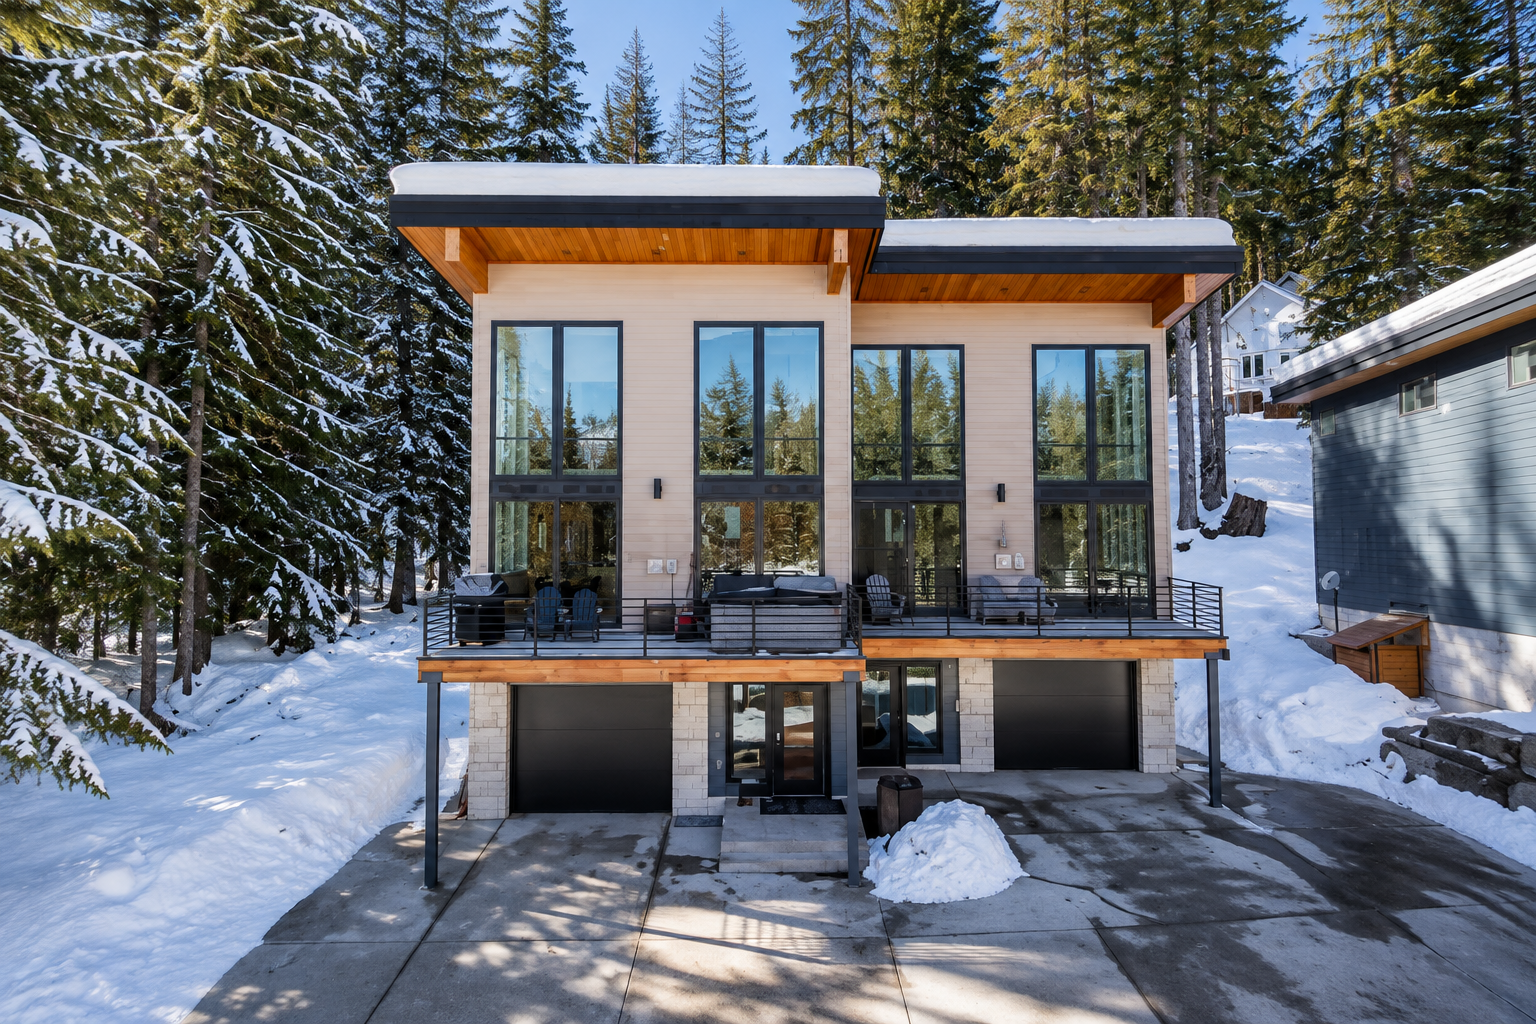
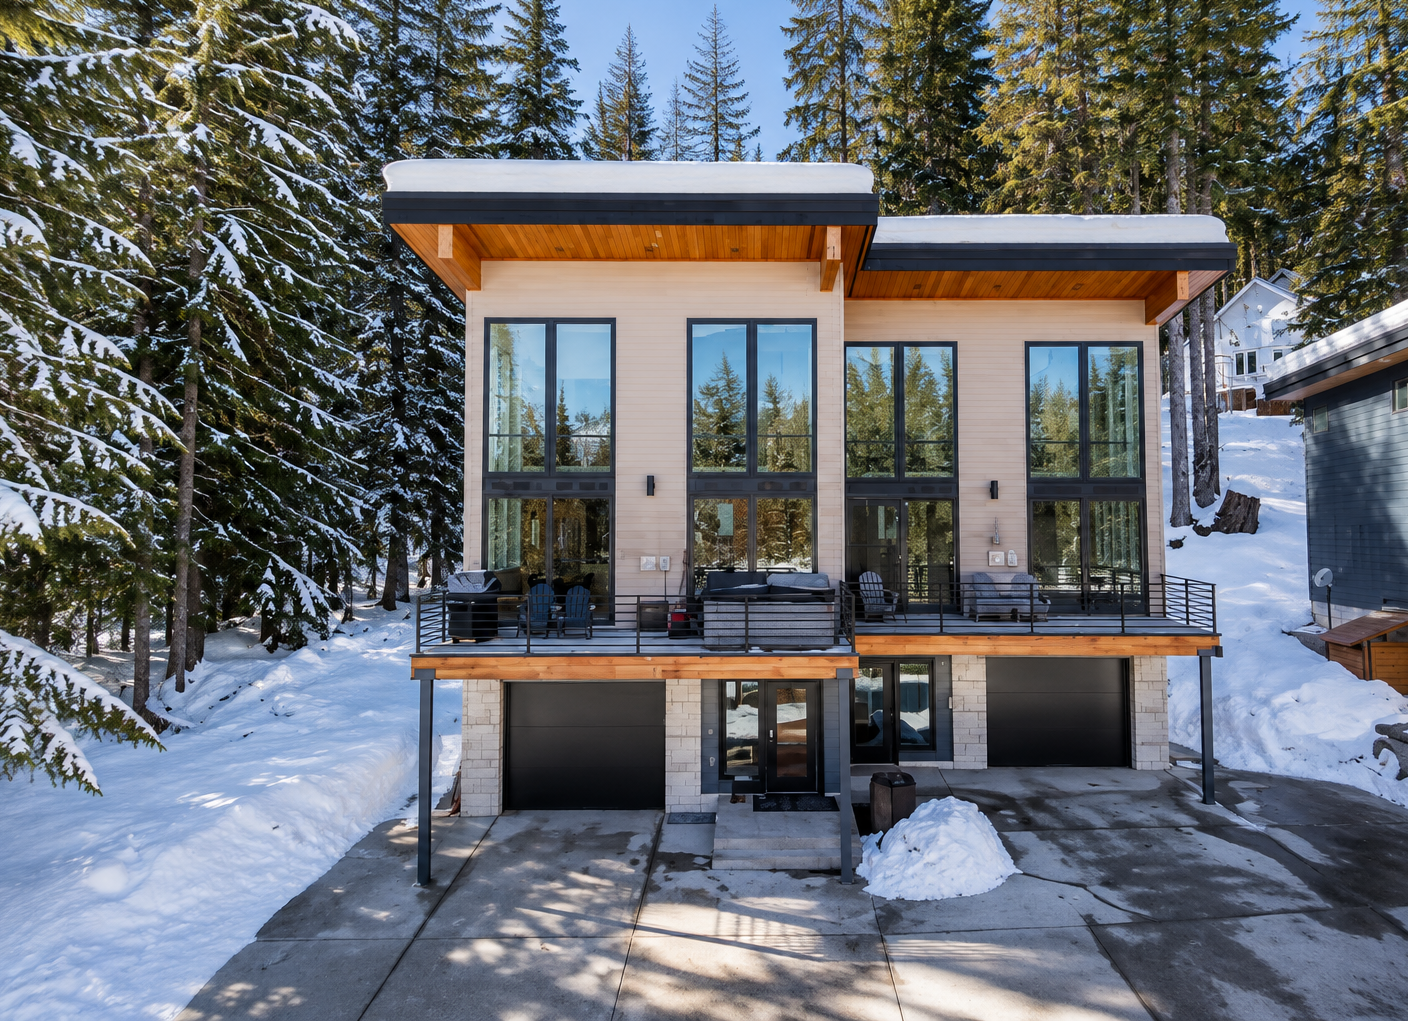
Hero update

diff --git a/book-your-stay/index.html b/book-your-stay/index.html
@@ -91,7 +91,7 @@
       </div>
       <div class="booking-gallery" aria-label="Photos of Bigfoot's Basecamp">
         <figure class="booking-gallery-featured">
-          <img src="../assets/images/booking-gallery/house-01.avif" alt="Rear exterior of Bigfoot's Basecamp surrounded by evergreens" />
+          <img src="/assets/images/booking-gallery/house-01.png" alt="Front exterior of Bigfoot's Basecamp surrounded by snow-covered evergreens" />
         </figure>
         <figure><img src="../assets/images/booking-gallery/house-02.avif" alt="Private hot tub on the outdoor deck" loading="lazy" /></figure>
         <figure><img src="../assets/images/booking-gallery/house-03.avif" alt="Sunlit living room with tall windows and forest views" loading="lazy" /></figure>
